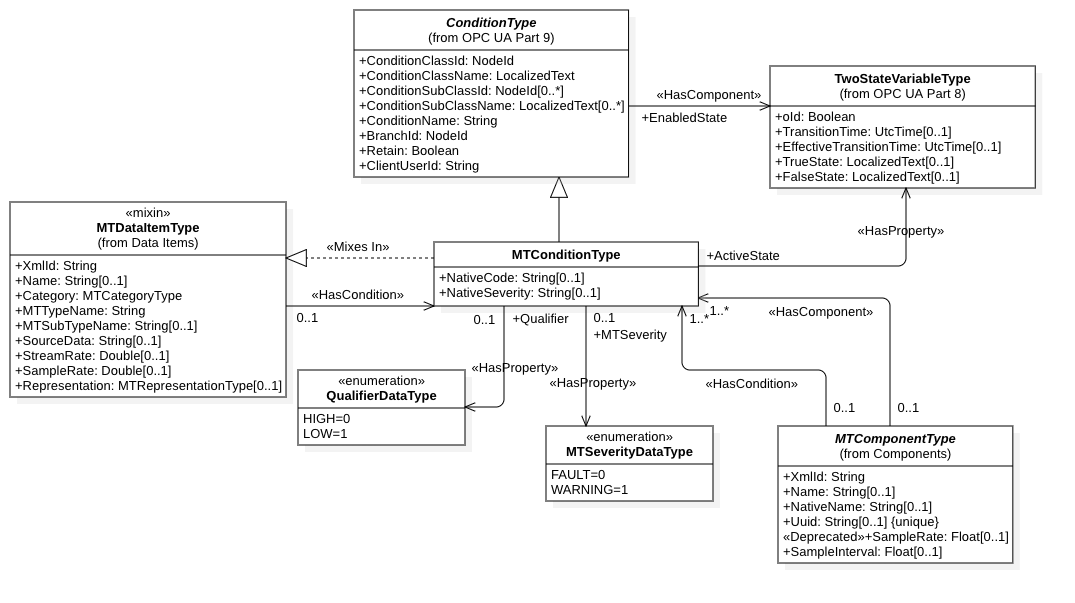
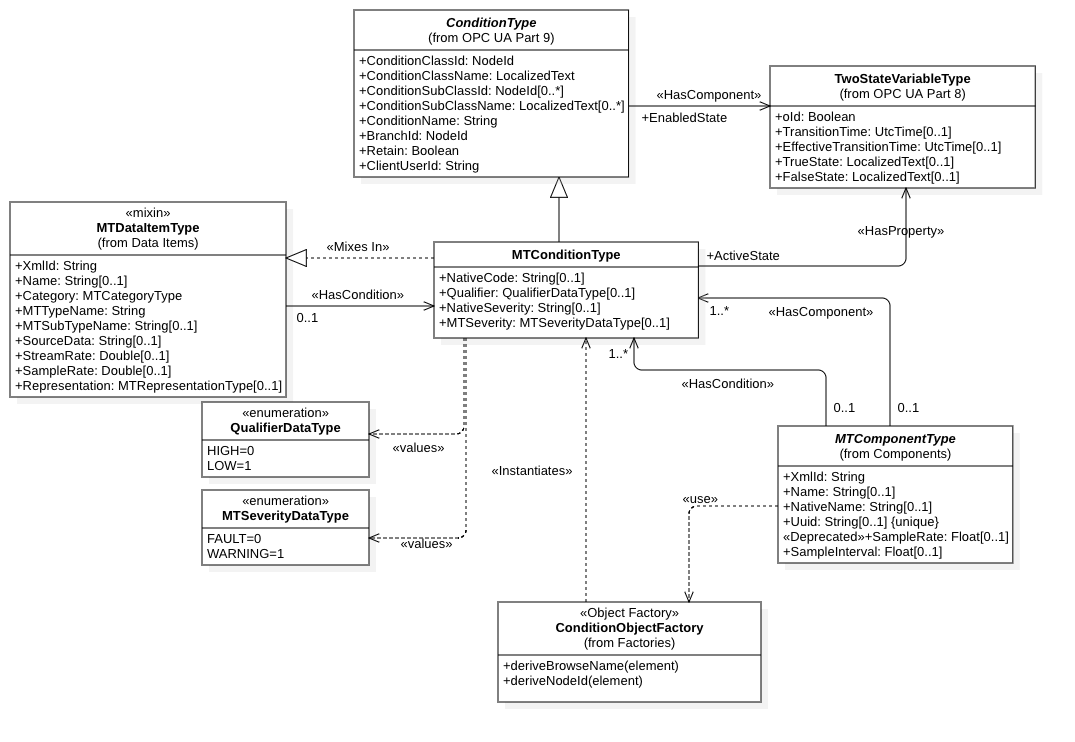
Synchronized with overleaf

Changed region(s): [[0.0, 0.0, 0.9516, 0.9552]]

diff --git a/latex/mtconnect-mapping.tex b/latex/mtconnect-mapping.tex
@@ -34,13 +34,6 @@ The UML Associations are used to represent OPC UA references. UA Properties repr
 
 When traversing an association between two object types, the name of the source of the association is the browse name associated with the object, and the destination is the type of object that is instantiated. If the name is not given, it represents a dynamic relationship where the browse name is determined during the creation of the object model. An example is the association of the MTConnect \mtconnectterm{DataItem}s.
 
-\begin{quote}
-    \color{red} Move Data Item UML to the Types section.
-\end{quote}
-
-%\input{diagrams/mtconnect-mapping/data-item-uml.tex}
-%\FloatBarrier
-
 A reference that has a stereotype of \textit{<<Organizes>>}, shown by the \texttt{Components} recursive relationship in the \mtconnectterm{MTComponentType}, implies an intermediate object of type \opcuaterm{FolderType} with the \uaterm{BrowseName} of the relationship point on the source side. The far side is not constrained within the \opcuaterm{FolderType} but given in the documentation as the expected contents of the folder.
 
 OPC UA represents both class and instance diagrams using the same set of primitives. UML provides separate class and object models using two separate sets of primitives, one for classification and the other for instances of those classes. This section separates the object instantiation from the classification and uses UML object diagrams to represent example instances of classes.
@@ -145,29 +138,29 @@ Extensions to the MTConnect standard that have enumerations will represent the d
 MTConnect base types have been prefixed with the letters \texttt{MT} to avoid confusion with OPC UA vocabulary. The following component types and relationships have been annotated:
 
 \begin{itemize}
-\item $Device \rightarrow MTDeviceType$
-\item $Component \rightarrow MTComponentType$
-\item $Composition \rightarrow MTCompositionType$
-\item $Configuration \rightarrow MTConfigurationType$
-\item $Description \rightarrow MTDescriptionType$
-\item $SensorConfiguration \rightarrow MTSensorConfiguration$
-\item $Message \rightarrow MTMessageType$
+\item Device $\rightarrow$ \mtuatype{MTDeviceType}
+\item Component $\rightarrow$  \mtuatype{MTComponentType}
+\item Composition $\rightarrow$ \mtuatype{MTCompositionType}
+\item Configuration $\rightarrow$ \mtuatype{MTConfigurationType}
+\item Description $\rightarrow$ \mtuatype{MTDescriptionType}
+\item SensorConfiguration $\rightarrow$ \mtuatype{MTSensorConfiguration}
+\item Message $\rightarrow$ \mtuatype{MTMessageType}
 \end{itemize}
 
 The following types representing base MTConnect types are also prefixed:
 
 \begin{itemize}
-\item $MTAssetEventType$
-\item $MTControlledVocabEventType$
-\item $MTNumericEventType$
-\item $MTHasClassType$
-\item $MTHasSubClassType$
-\item $MTStringEventType$
-\item $MTSampleType$
-\item $MTConnectAlarmConditionType$
-\item $MTExclusiveLimitConditionType$
-\item $MTNonExclusiveConditionType$
-\item $MTThreeSpaceSampleType$
+\item \mtuatype{MTAssetEventType}
+\item \mtuatype{MTControlledVocabEventType}
+\item \mtuatype{MTNumericEventType}
+\item \mtuatype{MTHasClassType}
+\item \mtuatype{MTHasSubClassType}
+\item \mtuatype{MTStringEventType}
+\item \mtuatype{MTSampleType}
+\item \mtuatype{MTConnectAlarmConditionType}
+\item \mtuatype{MTExclusiveLimitConditionType}
+\item \mtuatype{MTNonExclusiveConditionType}
+\item \mtuatype{MTThreeSpaceSampleType}
 \end{itemize}
 
 \subsubsection{Component and Composition \uaterm{BrowseName} Rules}
@@ -183,37 +176,50 @@ The MTConnect \mtterm{DataItem} represents multiple OPC UA \uaterm{DataVariableT
     \begin{itemize}
     \item Evaluate \xmlelement{DataItem} attributes as follows:
         \begin{enumerate}
+        \setlength\itemsep{1em}
         \item If the category is \texttt{CONDITION}, the type is \mtuatype{MTConditionType}.
+        
         \item If the category is \texttt{SAMPLE}; apply the following rules:
             \begin{enumerate}
             \item If the \xmlattribute{type} is \texttt{PATH_POSITION} then the type is \mtuatype{MTThreeSpaceSampleType}.
             \item Otherwise, the UA type is \mtuatype{MTSampleType}.
             \end{enumerate}
+            
         \item If the category is \texttt{EVENT}; apply the following rules:
             \begin{enumerate}
+            \setlength\itemsep{1em}
             \item If the \xmlattribute{type} is \texttt{ASSET_CHANGED} or \texttt{ASSET_REMOVED}; the UA type is \mtuatype{MTAssetEventType}
+            
             \item Convert the \xmlattribute{type} attribite to \textit{PascalCase} and add \texttt{ClassType}.
+            
             \item Find the MTConnect UA \uaterm{ClassType} that corresponds to the value computed in the previous step.
             The types can be found in Sections \mtuamodel{ControlledVocabDataItemTypes}, \mtuamodel{NumericEventDataItemTypes}, and \mtuamodel{StringEventDataItemTypes}.
+            
             \item If the \uaterm{ClassType} matches one of the \mtuamodel{StringEventDataItemTypes}; the MTConnect UA type is \mtuatype{MTStringEventType}.
+            
             \item If the \uaterm{ClassType} matches one of the \mtuamodel{NumericEventDataItemTypes}; the MTConnect UA type is \mtuatype{MTNumericEventType}.
+            
             \item If the \uaterm{ClassType} matches one of the  \mtuamodel{ControlledVocabDataItemTypes}, the MTConnect UA type is \mtuatype{MTControlledVocabEventType}. The \uaterm{EnumValues} will be assigned as follows:
-                \begin{enumerate}
-                \item Each of the \uaterm{ClassType}s will have a property \mtterm{EnumValues}. The \uaterm{EnumValues} must reference the \mtterm{EnumValues} property of the \uaterm{ClassType}.
-                \end{enumerate}
+            \newline
+            
+            Each of the \uaterm{ClassType}s will have a property \mtterm{EnumValues}. The \uaterm{EnumValues} must reference the \mtterm{EnumValues} property of the \uaterm{ClassType}.
+            
             \item Otherwise, the UA type is \mtuatype{MTStringEventType}. This will apply to all extended types.
             \end{enumerate}
         \end{enumerate}
     \end{itemize}
+    
 \item Assign the \mtuatype{HasMTClassType} and \mtuatype{HasMTSubClassType} \uaterm{References}
     \begin{enumerate}
-        \item Convert the \xmlelement{DataItem} \xmlattribute{type} attribute to \textit{PascalCase} and append \texttt{ClassType}. Assign the target of the \mtuatype{HasMTClassType} to the \uaterm{ObjectType}
-        \item Put the text name of the class in the property \mtterm{MTTypeName}.
-        \item Convert the \xmlelement{DataItem} \xmlattribute{subType} attribute to \textit{PascalCase} and append \texttt{SubClassType}. Assign the target of the \mtuatype{HasMTSubClassType} to the \uaterm{ObjectType}
-        \item Put the text name of the class in the property \mtterm{MTSubTypeName}.
+    \item Convert the \xmlelement{DataItem} \xmlattribute{type} attribute to \textit{PascalCase} and append \texttt{ClassType}. Assign the target of the \mtuatype{HasMTClassType} to the \uaterm{ObjectType}
+    \item Put the text name of the class in the property \mtterm{MTTypeName}.
+    \item Convert the \xmlelement{DataItem} \xmlattribute{subType} attribute to \textit{PascalCase} and append \texttt{SubClassType}. Assign the target of the \mtuatype{HasMTSubClassType} to the \uaterm{ObjectType}
+    \item Put the text name of the class in the property \mtterm{MTSubTypeName}.
     \end{enumerate}
+    
 \item Format the \uaterm{BrowseName} for the \mtterm{Sample} and \mtterm{Event} \mtterm{DataItem}s
-    \begin{enumerate}
+    \begin{enumerate}[after=\vspace{\baselineskip}]
+    \setlength\itemsep{1em}
     \item If the \xmlelement{DataItem} attribute \xmlattribute{compositionId} is present, do the following:
         \begin{enumerate}
         \item Resolve the \xmlattribute{compositionId} to the \mtterm{Composition} XML element with that \xmlattribute{id}.
@@ -223,7 +229,9 @@ The MTConnect \mtterm{DataItem} represents multiple OPC UA \uaterm{DataVariableT
     \item If the \xmlattribute{subType} is present, set the variable \texttt{subType} to the \textit{PascalCase} of the \xmlattribute{subType}. Otherwise set it the variable \texttt{subType} to "".
     \item Set the variable \texttt{type} to the \textit{PascalCase} of the \xmlelement{DataItem} attribute \xmlattribute{type}.
     \item The \uaterm{BrowseName} is the concatination of the \texttt{composition} + \texttt{subType} + \texttt{type}.
+    \item If the \xmlattribute{representation} attribute is given, the \uaterm{BrowseName} will be have the \textit{PascalCase} of the \xmlattribute{representation} appended to the \uaterm{BrowseName}. For example, a \dataitem{AMPERAGE} with \xmlattribute{representation="TIME_SERIES"} will have a \uaterm{BrowseName} of \texttt{AmperageTimeSeries}.
     \end{enumerate}
+
 \item Format the \uaterm{BrowseName} for the \mtterm{Condition} \mtterm{DataItem}s
     \begin{enumerate}
     \item Use the name derived in the previous step for \mtterm{Event}s and \mtterm{Sample}s and append \texttt{Condition}. 
@@ -231,6 +239,16 @@ The MTConnect \mtterm{DataItem} represents multiple OPC UA \uaterm{DataVariableT
 \end{enumerate}
 
 The examples below will provide further guidance on implementing these rules.
+
+\subsubsection{\uaterm{NodeId} Construction Rules}
+
+To ensure unique \uaterm{NodeIds} in the address space, the following rules will be used to compose the \uaterm{NodeId} of each \uaterm{Object} and \uaterm{Variable}:
+
+\begin{itemize}
+    \item The \mtuatype{MTDeviceType} instance will use the \xmlattribute{uuid} attribute as the NodeId.
+    \item XML elements with an \xmlattribute{id} will compose the \mtuatype{MTDeviceType} \xmlattribute{uuid} and the \xmlattribute{id} as follows: $uuid + "/" + id$.
+    \item \uaterm{Object}s and \uaterm{Variable}s that do not have an \xmlattribute{id} associated with the corresponding XML element will use the parent \uaterm{NodeId} composed with the browse name of the object as follows: $parent.NodeId + "/" + self.BrowseName$
+\end{itemize}
 
 \subsubsection{Mapping \mtterm{DataItem} \mtterm{units} to \uaterm{EngineeringUnits}}
 
@@ -415,6 +433,14 @@ The \mtuatype{MTComponentType} is decendent of the \uaterm{BaseEventType} descri
 The \uaterm{HasNotifier} refererence is created between the \texttt{SimpleCnc:}\mtuatype{MTDeviceType} object and the \texttt{Axes} object to allow for the events to flow down to the conditions for each of the components. The relationship of the condition in Figure~\ref{fig:linear-x-example-1} illustrates the relationships between the \element{Component} and the related condition in the notification hierarchy.
 
  The \texttt{Linear[x]} component uses a \uaterm{HasNotifier} reference sourced from the parent \texttt{Axes} \uaterm{Object}. The condition, having a \mtuatype{MTClassType} and a ConditionClassId of \mtuatype{PositionClassType}, is connected to the \texttt{Linear[X]} axis with a \uaterm{HasCondition} relationship. 
+
+\begin{quote}
+    \color{red} Need to handle the following three Conditon Properties: SourceName, SourceNode, and EventType.
+    \begin{itemize}
+        \item SourceNode and SourceName must refer to either the Component or the Variable that is the source of this Condition.
+        \item Is EventType the ...Type that is referenced by the \uaterm{HasTypeDefinition}?
+    \end{itemize}
+\end{quote}
 
 \FloatBarrier
 
@@ -641,7 +667,7 @@ The \mtterm{DataItems} with \mtterm{category} \dataitem{SAMPLE} are mapped to th
       </ComponentStream>
 \end{lstlisting}
 
-The OPC UA \uaterm{DataVariableType}s are monitored items and have three attribtues that are updated when the value changes. They are the \uaterm{Value} in the instance of the \uaterm{DataVariable}, the \uaterm{SourceTimestamp}, and the \uaterm{Quality}. When the value is given, not \texttt{UNAVAILABLE}, the \uaterm{Quality} will be set to the Status Code of \uaterm{Good}, the \uaterm{SourceTimestamp} will be set to the \xmlattribute{timestamp} attribute and the \uaterm{Value} set to the contents of the \xmlelement{CDATA} converted to a \mtterm{Double} precision value.
+The OPC UA \uaterm{DataVariableType}s are monitored items and have three attribtues that are updated when the value changes. They are the \uaterm{Value} in the instance of the \uaterm{DataVariable}, the \uaterm{Time}, and the \uaterm{Quality}. When the value is given, not \texttt{UNAVAILABLE}, the \uaterm{Quality} will be set to the Status Code of \uaterm{Good}, the \uaterm{Time} will be set to the \xmlattribute{timestamp} attribute and the \uaterm{Value} set to the contents of the \xmlelement{CDATA} converted to a \mtterm{Double} precision value.
 
 \subsubsection{String and Numeric Events}\label{sec:sting-numeric-events}
 
@@ -712,6 +738,11 @@ The instance of the \mtuatype{MTConditionType} will contain the last state of th
 The \uaterm{ConditionType} and \uaterm{EventType} properties will be set as follows:
 
 \begin{itemize}
+    \item \uaterm{EnableState} will be set as follows:
+    \begin{itemize}
+        \item If the \xmlelement{QName} is \xmlelement{Unavailable}, \uaterm{EnableState} is \uaterm{False}
+        \item Otherwise, \uaterm{EnableState} is \uaterm{True}
+    \end{itemize}
     \item \uaterm{Severity}:
     \begin{itemize}
         \item When \mtterm{Normal}, \uaterm{Severity} is 0.

diff --git a/latex/main.tex b/latex/main.tex
@@ -49,11 +49,11 @@ style=alphabetic,
 \docnum{OPC/UA}							% Document "number"
 \doctitle{OPC Unified Architecture\protect\\\quad\protect\\for\protect\\\quad\protect\\\mtconnect\protect\\\quad\protect\\Companion Specification}	% Full document title
 \doctitleshort{\mtconnect OPC/UA Companion Specification}				% Shortened document title
-\versionnum{2.0}						% MTConnect version
+\versionnum{2.0--B}						% MTConnect version
 
 \preparedfor{MTConnect Institute and OPC Foundation}		% Should not change!!!
 \preparedby{List of authors\ldots}				% Author
-\preparedon{October 31, 2018}			% Date prepared
+\preparedon{November 1, 2018}			% Date prepared
 \drafttext{Draft }
 
 % ************************************************************************* %
@@ -103,6 +103,6 @@ style=alphabetic,
 \section{MTConnect OPC UA Types}\label{mtconnect_information_model}
 \FloatBarrier
 
-\input ./types.tex
+%\input ./types.tex
 
 \end{document}

diff --git a/latex/diagrams/mtconnect-mapping/linear-x-example-1.tex b/latex/diagrams/mtconnect-mapping/linear-x-example-1.tex
@@ -107,13 +107,12 @@
   ConditionClassId & (ns=1;i=365705) \\
   ConditionClassName & "PositionClassType" \\
   ConditionName & "Xtravel" \\
-  BranchId & 0 \\
-  Retain & false \\
+  EventType & (ns=1;i=256501) \\
+  SourceNode & "e373fec0" \\
+  SourceName & "Linear[X]" \\
   EnableState & True \\
   Quality & Good \\
   LastSeverity & 0 \\
-  Comment & "" \\
-  ClientUserId & "" \\
   Name & "Xtravel" \\
   MTTypeName & "POSITION" \\
   Category & "CONDITION" \\

diff --git a/latex/types.tex b/latex/types.tex
@@ -1,4 +1,4 @@
-% Generated 2018-11-01 12:19:28 -0700
+% Generated 2018-11-01 18:20:27 -0700
 \subsection{Components} \label{model:Components}
 
 \begin{figure}[ht]
